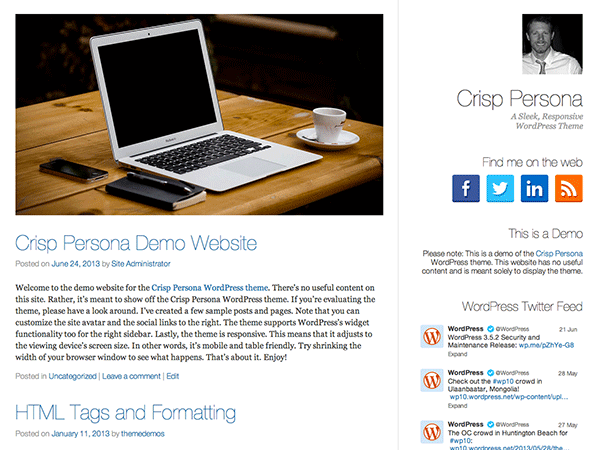
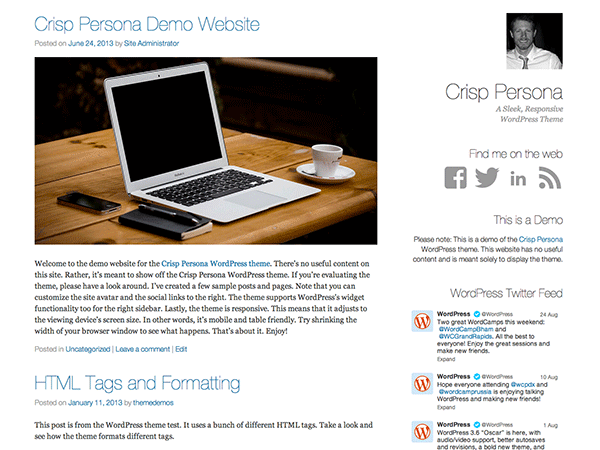
Updates to 1.0.4

diff --git a/style.css b/style.css
@@ -5,7 +5,7 @@ Theme URI: http://justinklemm.com/crisp-persona/
 Author: Justin Klemm
 Author URI: http://justinklemm.com
 Description: A sleek, responsive WordPress theme for your personal blog.
-Version: 1.0.3
+Version: 1.0.4
 License: GNU General Public License
 License URI: license.txt
 Tags: white, light, flexible-width, featured-images, theme-options, threaded-comments

diff --git a/stylesheets/sass/style.scss b/stylesheets/sass/style.scss
@@ -4,7 +4,7 @@ Theme URI: http://justinklemm.com/crisp-persona/
 Author: Justin Klemm
 Author URI: http://justinklemm.com
 Description: A sleek, responsive WordPress theme for your personal blog.
-Version: 1.0.3
+Version: 1.0.4
 License: GNU General Public License
 License URI: license.txt
 Tags: white, light, flexible-width, featured-images, theme-options, threaded-comments

diff --git a/README.md b/README.md
@@ -35,6 +35,14 @@ Crisp Persona is a free WordPress theme designed by Justin Klemm. Feel free to u
 
 ## Changelog
 
+#### 1.0.4 (09/03/2013)
+* Option to make the site avatar round
+* Moved featured photos below post title/meta in listings
+* Removed coloring of social media icons
+* Remove gray border between content and sidebar
+* Removed 3D (bottom) border on buttons
+* Fix to limit width of videos, iframes and embeds to 100% (like images)
+
 #### 1.0.3 (07/17/2013)
 * Fix to hide normal nav buttons when infinite scrolling is enabled
 * Tweaks to handle images and indented lists in sidebar widgets
